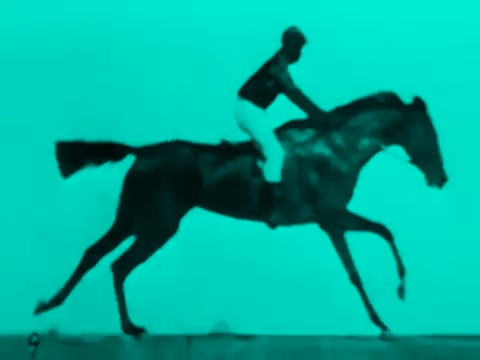
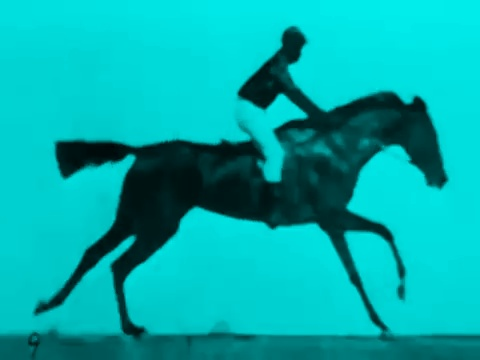
fix: update frame color calculation

diff --git a/src/main.rs b/src/main.rs
@@ -50,7 +50,7 @@ fn main() -> Result<()> {
 
         // let hsv_color = Scalar::new(0.0, 1.0, 1.0, 1.0);
 
-        let (r, g, b) = hsv_to_rgb(720. * frame_counter / total_frames, 1., 1.);
+        let (r, g, b) = hsv_to_rgb(745. * frame_counter / total_frames, 1., 1.);
 
         // let mut scalar_color = Scalar::default();
         // imgproc::cvt_color(&hsv_color, &mut scalar_color, imgproc::COLOR_HSV2BGR, 0)?;
